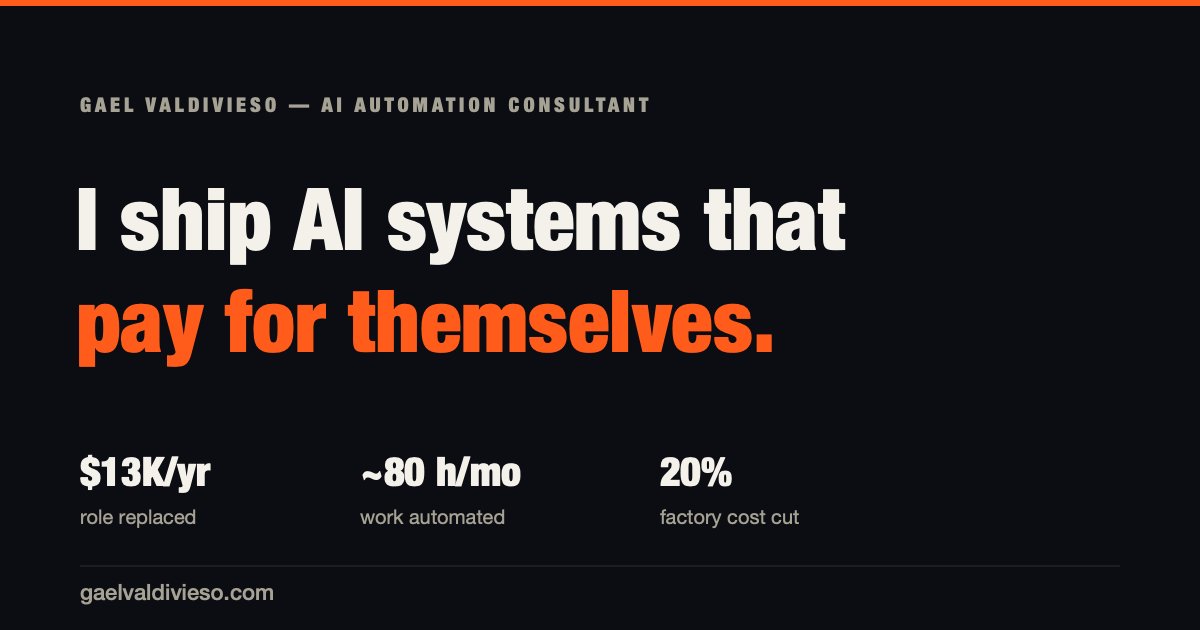
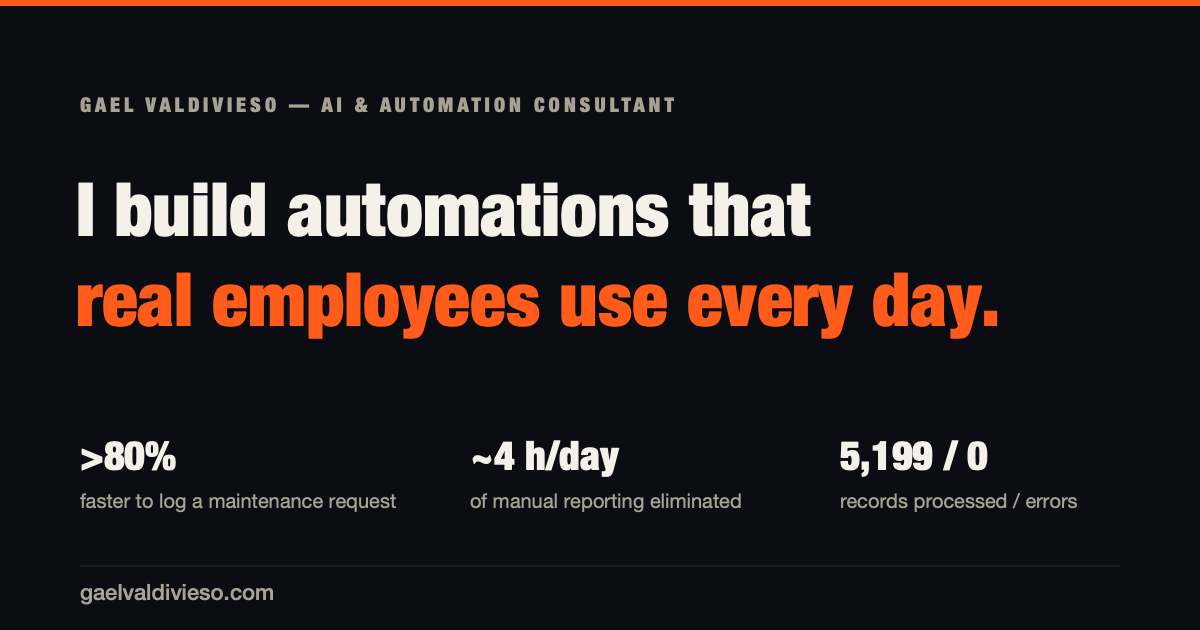
Content update: impact-first case studies, new hero stats, skills + background
- Hero: new headline/angle, 4 new stat cards (>80%, ~4 h/day, 5,199/0, 1 role)
- 4 case studies (was 5), each Result -> Problem -> What I built -> How it works -> Stack -> Status
- Case 1 adds labelled 'In progress' block (supplier-quote intake)
- Skills in 4 groups replaces Toolbox; Background replaces About
- Removed: all money figures, client name, phone/WhatsApp, work-rights line, old VBA and bottleneck cards
- Meta/OG/canonical rewritten; canonical now www; og.png regenerated
- Hero reveals instantly on load instead of waiting for the observer

diff --git a/index.html b/index.html
@@ -3,26 +3,26 @@
 <head>
 <meta charset="utf-8">
 <meta name="viewport" content="width=device-width, initial-scale=1">
-<title>Gael Valdivieso · AI systems that pay for themselves</title>
-<meta name="description" content="Gael Valdivieso builds AI systems that pay for themselves, with real clients and measured ROI. Final-year Engineering &amp; Management student, University of Exeter.">
-<link rel="canonical" href="https://gaelvaldivieso.com/">
+<title>Gael Valdivieso · AI &amp; automation consultant</title>
+<meta name="description" content="Final-year Engineering and Management student (University of Exeter) and founder of Gael AI Consulting. AI-assisted maintenance app in daily use at a printing and packaging plant; ~4 hours a day of manual reporting eliminated at FedEx, official representative in Ecuador (Grupo Entregas).">
+<link rel="canonical" href="https://www.gaelvaldivieso.com/">
 <meta name="author" content="Gael Valdivieso">
 <meta name="theme-color" content="#0C0D12">
 
 <meta property="og:type" content="website">
 <meta property="og:site_name" content="Gael Valdivieso">
-<meta property="og:url" content="https://gaelvaldivieso.com/">
-<meta property="og:title" content="Gael Valdivieso · AI systems that pay for themselves">
-<meta property="og:description" content="AI automation consultant with real, paid deployments in Ecuador. $13K/yr role replaced, ~80 h/mo automated, 20% cost cut on a factory line.">
-<meta property="og:image" content="https://gaelvaldivieso.com/og.png">
+<meta property="og:url" content="https://www.gaelvaldivieso.com/">
+<meta property="og:title" content="Gael Valdivieso · AI &amp; automation consultant">
+<meta property="og:description" content="I build automations that real employees use every day, and I measure what they change. &gt;80% faster maintenance requests · ~4 h/day of manual reporting eliminated · 5,199 records, 0 errors.">
+<meta property="og:image" content="https://www.gaelvaldivieso.com/og.png">
 <meta property="og:image:width" content="1200">
 <meta property="og:image:height" content="630">
-<meta property="og:image:alt" content="Gael Valdivieso — I ship AI systems that pay for themselves.">
+<meta property="og:image:alt" content="Gael Valdivieso — I build automations that real employees use every day.">
 
 <meta name="twitter:card" content="summary_large_image">
-<meta name="twitter:title" content="Gael Valdivieso · AI systems that pay for themselves">
-<meta name="twitter:description" content="AI automation consultant with real, paid deployments in Ecuador. $13K/yr role replaced, ~80 h/mo automated, 20% cost cut on a factory line.">
-<meta name="twitter:image" content="https://gaelvaldivieso.com/og.png">
+<meta name="twitter:title" content="Gael Valdivieso · AI &amp; automation consultant">
+<meta name="twitter:description" content="I build automations that real employees use every day, and I measure what they change. &gt;80% faster maintenance requests · ~4 h/day of manual reporting eliminated · 5,199 records, 0 errors.">
+<meta name="twitter:image" content="https://www.gaelvaldivieso.com/og.png">
 
 <link rel="icon" href="/favicon.svg" type="image/svg+xml">
 <link rel="icon" href="/favicon-32.png" sizes="32x32" type="image/png">
@@ -236,7 +236,7 @@ a{color:inherit}
 .case.alt .case-aside .idx,
 .case.alt .row .rk{color:var(--signal)}
 .case.alt .case-aside .tag{border-color:var(--signal);color:var(--signal)}
-.case.alt .note{
+.note{
   margin-top:1.4rem;padding:.9rem 1.1rem;
   border-left:2px solid var(--signal);
   background:var(--surface);
@@ -328,6 +328,28 @@ footer{
   display:flex;justify-content:space-between;flex-wrap:wrap;gap:.5rem;
 }
 
+/* ---------- case extras (client line, bullets, in-progress block, compact card) ---------- */
+.case-body .client{
+  font-family:"IBM Plex Mono",monospace;
+  font-size:.72rem;letter-spacing:.12em;text-transform:uppercase;
+  color:var(--ink-dim);margin-top:.6rem;
+}
+.row ul{margin:.25rem 0 0 1.1rem;color:var(--ink-dim)}
+.row li+li{margin-top:.35rem}
+.row li strong{color:var(--ink);font-weight:600}
+.note.wip{border-left-color:var(--accent);margin-top:1.6rem}
+.note.wip .rk{font-family:"IBM Plex Mono",monospace;font-size:.7rem;letter-spacing:.16em;text-transform:uppercase;color:var(--accent);margin-bottom:.3rem}
+.note.wip .pill{margin-top:.8rem;border-color:var(--accent)}
+.note.wip .pill::before{background:var(--accent)}
+.case.minor{padding:clamp(1.8rem,5vh,3rem) 0}
+.case.minor .case-body h3{font-size:clamp(1.15rem,1rem + .6vw,1.45rem)}
+.case.minor .idx{font-size:clamp(2rem,1.6rem + 2vw,3rem)}
+
+/* ---------- SKILLS ---------- */
+.skills{border-top:1px solid var(--hair);padding:clamp(2rem,5vh,3rem) 0;display:flex;flex-direction:column;gap:1.6rem}
+.skill-group .eyebrow{display:block;margin-bottom:.6rem}
+.skill-group .stack-grid{border-top:0;padding:0}
+
 /* ---------- reveal animation ---------- */
 .reveal{opacity:0;transform:translateY(22px);transition:opacity .7s cubic-bezier(.2,.6,.2,1),transform .7s cubic-bezier(.2,.6,.2,1)}
 .reveal.in{opacity:1;transform:none}
@@ -357,50 +379,65 @@ a:focus-visible,.btn:focus-visible{outline:2px solid var(--focus);outline-offset
 
   <!-- HERO -->
   <section class="hero">
-    <span class="eyebrow reveal">Gael Valdivieso · AI Automation Consultant</span>
-    <h1 class="reveal">I ship AI systems that <span class="hl">pay for themselves</span>. Not slide decks.</h1>
-    <p class="sub reveal">Final-year Engineering &amp; Management student at the University of Exeter, graduating July 2027, and founder of <strong>Cresco</strong>, an independent automation consultancy with real, paid deployments in Ecuador.</p>
+    <span class="eyebrow reveal">Gael Valdivieso · AI &amp; automation consultant</span>
+    <h1 class="reveal">I build automations that real employees <span class="hl">use every day</span> — and I measure what they change.</h1>
+    <p class="sub reveal">Final-year Engineering and Management student at the University of Exeter and founder of <strong>Gael AI Consulting</strong>. Replaced a factory's paper maintenance process with an AI-assisted app used every day, then sold the client the next phase. Before that, automated reporting at <strong>FedEx, official representative in Ecuador (Grupo Entregas)</strong>, saving ~4 hours of manual work a day.</p>
     <div class="cta-row reveal">
       <a class="btn btn-primary" href="#contact">Let's talk →</a>
       <a class="btn btn-ghost" href="#work">See the work</a>
     </div>
 
     <div class="stat-strip">
-      <div class="stat reveal"><div class="n">5</div><div class="l">shipped projects, real clients</div></div>
-      <div class="stat reveal"><div class="n">$13K<span style="font-size:.6em">/yr</span></div><div class="l">role not backfilled, thanks to the system</div></div>
-      <div class="stat reveal"><div class="n">~80<span style="font-size:.6em">h/mo</span></div><div class="l">manual data work automated away</div></div>
-      <div class="stat reveal"><div class="n">20%</div><div class="l">operating cost cut on a factory line</div></div>
+      <div class="stat reveal"><div class="n">&gt;80%</div><div class="l">faster to log a maintenance request with AI</div></div>
+      <div class="stat reveal"><div class="n">~4<span style="font-size:.6em"> h/day</span></div><div class="l">of manual reporting eliminated</div></div>
+      <div class="stat reveal"><div class="n">5,199<span style="font-size:.6em"> / 0</span></div><div class="l">records processed, errors — first test with real data</div></div>
+      <div class="stat reveal"><div class="n">1<span style="font-size:.6em"> role</span></div><div class="l">vacant role made unnecessary by an AI-assisted app</div></div>
     </div>
   </section>
 
   <!-- WORK -->
   <section id="work">
     <div class="sec-head">
-      <span class="eyebrow reveal">Selected work</span>
-      <h2 class="reveal">Case files</h2>
-      <span class="count reveal">01 – 05 · ordered by impact</span>
+      <span class="eyebrow reveal">Case studies</span>
+      <h2 class="reveal">What I built, and what it changed</h2>
+      <span class="count reveal">01 – 04 · result first</span>
     </div>
 
     <!-- CASE 1 -->
     <article class="case reveal">
       <div class="case-aside">
         <div class="idx">01</div>
-        <span class="tag">AI-assisted platform · in production</span>
+        <span class="tag">AI-assisted app · in production</span>
         <div class="metrics">
-          <div class="metric"><div class="mn">$13,000/yr</div><div class="ml">position cost removed</div></div>
-          <div class="metric"><div class="mn">~13×</div><div class="ml">ROI over project fee</div></div>
-          <div class="metric"><div class="mn">2 months</div><div class="ml">live and still running</div></div>
+          <div class="metric"><div class="mn">&gt;80%</div><div class="ml">faster to log a maintenance request</div></div>
+          <div class="metric"><div class="mn">1 role</div><div class="ml">vacant coordinator role made unnecessary</div></div>
+          <div class="metric"><div class="mn">304</div><div class="ml">machines in the live catalogue</div></div>
         </div>
       </div>
       <div class="case-body">
-        <h3>AI-Assisted Maintenance Platform: Imprenta Mariscal</h3>
+        <h3>AI maintenance platform for a printing and packaging plant</h3>
+        <div class="client">Gael AI Consulting · Jul 2026 – Present</div>
         <div class="rows">
-          <div class="row"><div class="rk">Problem</div><p>The person responsible for maintenance (tracking, reporting, staying on top of everything) resigned, leaving a lot of loose operational threads with no owner.</p></div>
-          <div class="row"><div class="rk">Solution</div><p>I built a maintenance request-tracking PWA (Next.js, FileMaker Data API, Supabase) with generative AI wired into four real friction points: photo-based damage classification, voice-note transcription and cleanup, structured close-out report extraction, and quote/PDF data extraction. All AI calls use structured outputs (JSON Schema) to guarantee parseable results, with a human reviewing and confirming every output. No autonomous agent, no memory between calls: targeted AI inside a deterministic app that also handles routing, notifications, and sync.</p></div>
-          <div class="row"><div class="rk">Impact</div><p>The factory has run its maintenance workflow for <strong>two months in production</strong> without backfilling the vacant coordination role, avoiding roughly <strong>$13,000/yr</strong> in salary cost, about <strong>13× ROI</strong> on what I charged to build it.</p></div>
+          <div class="row"><div class="rk">Result</div><p><strong>Replaced a vacant maintenance-coordinator role.</strong> Logging a maintenance request is <strong>&gt;80% faster</strong>. Used every day by the plant manager and the technician.</p></div>
+          <div class="row"><div class="rk">Problem</div><p>Corrective maintenance at a ~550-employee printing and packaging plant (304 machines) ran on paper.</p></div>
+          <div class="row"><div class="rk">What I built</div><p>An installable web app (PWA) covering the whole workflow: <strong>request → diagnosis → quotation → approval → resolution</strong>. Role-based login, device revocation, role-targeted push notifications and self-updating deployments.</p></div>
+          <div class="row"><div class="rk">How it works</div>
+            <ul>
+              <li><strong>Voice dictation</strong> with automatic text clean-up.</li>
+              <li><strong>Photo analysis</strong> that suggests each request's priority and classification.</li>
+              <li><strong>Voice-dictated closure reports</strong> turned into structured data, with automatic time tracking and a formatted closure email.</li>
+              <li>Connected to the company's legacy <strong>FileMaker ERP</strong>: live 304-machine catalogue, two-way sync of requests, and an offline queue with automatic retry for unreliable plant connectivity.</li>
+            </ul>
+          </div>
+          <div class="row"><div class="rk">Business side</div><p>Scoped, priced and sold a phased digitisation roadmap. <strong>Phase 1 approved by the client in Sep 2026.</strong></p></div>
+        </div>
+        <div class="note wip">
+          <div class="rk">In progress</div>
+          <p>Automated supplier-quote intake: inbound emails are verified, AI extracts amount, currency and terms, quotes are matched to the right machine and unmatched ones flagged for review.</p>
+          <span class="pill">Built and tested · deployment in progress</span>
         </div>
         <div class="stackline">
-          <span class="chip">Next.js 16</span><span class="chip">FileMaker Data API</span><span class="chip">Supabase Auth + RLS</span><span class="chip">OpenAI gpt-4o-mini</span><span class="chip">gpt-4o-transcribe</span><span class="chip">Structured Outputs (JSON Schema)</span><span class="chip">Resend</span><span class="chip">Web Push</span><span class="chip">PWA</span>
+          <span class="chip">Next.js</span><span class="chip">React</span><span class="chip">TypeScript</span><span class="chip">Tailwind CSS</span><span class="chip">Supabase (Auth, Postgres, RLS)</span><span class="chip">FileMaker Data API</span><span class="chip">OpenAI (speech-to-text, vision, extraction)</span><span class="chip">Resend</span><span class="chip">Web Push</span><span class="chip">Vercel</span>
         </div>
       </div>
     </article>
@@ -409,22 +446,31 @@ a:focus-visible,.btn:focus-visible{outline:2px solid var(--focus);outline-offset
     <article class="case reveal">
       <div class="case-aside">
         <div class="idx">02</div>
-        <span class="tag">Full web app · daily use</span>
+        <span class="tag">Automated reporting · used daily</span>
         <div class="metrics">
-          <div class="metric"><div class="mn">Real-time</div><div class="ml">operational answers</div></div>
-          <div class="metric"><div class="mn">Per-branch</div><div class="ml">access, enforced by RLS</div></div>
-          <div class="metric"><div class="mn">0</div><div class="ml">manual Excel reviews left</div></div>
+          <div class="metric"><div class="mn">~4 h/day</div><div class="ml">of manual reporting eliminated</div></div>
+          <div class="metric"><div class="mn">5,199 / 0</div><div class="ml">real records processed / errors</div></div>
+          <div class="metric"><div class="mn">39</div><div class="ml">branches with daily visibility</div></div>
         </div>
       </div>
       <div class="case-body">
-        <h3>Torre de Control: Grupo Entregas Logistics, Ecuador</h3>
+        <h3>Operations control tower for a national delivery network</h3>
+        <div class="client">FedEx, official representative in Ecuador (Grupo Entregas) · Jun – Jul 2026</div>
         <div class="rows">
-          <div class="row"><div class="rk">Problem</div><p>The operation delivering bank cards had no real-time visibility into which shipments were stuck. Someone had to open every delivery point's daily Excel ("Punto CLON") by hand and scan colour-coded pivot sheets for trouble.</p></div>
-          <div class="row"><div class="rk">Solution</div><p>I built a full operational web panel (not an Excel sheet or a no-code dashboard) that answers, live: is the operation healthy today? Which shipments need follow-up right now? Which points are worst? A shipment is flagged <strong>at risk</strong> automatically when it goes 2+ days with no status change, or never left for delivery.</p></div>
-          <div class="row"><div class="rk">Impact</div><p>Replaces the daily manual Excel review per delivery point. Access is segmented by security (<strong>Row Level Security</strong>) instead of emailing the whole sheet to everyone. In real daily use.</p></div>
+          <div class="row"><div class="rk">Result</div><p><strong>Eliminated ~4 hours of manual reporting a day.</strong> Management now has daily visibility of at-risk and delayed shipments across a <strong>39-branch network</strong>. Used every day since launch.</p></div>
+          <div class="row"><div class="rk">Problem</div><p>An office employee consolidated the daily shipment report by hand.</p></div>
+          <div class="row"><div class="rk">What I built</div><p>First, <strong>9 VBA tools</strong> that cut the report to a few clicks. Then a fully automatic <strong>control tower</strong>: the report arrives by email and is ingested automatically, validated before any write, de-duplicated and logged. It includes a KPI dashboard, an alert centre, risk-sorted shipment tracking with full per-shipment history, and 30-day trends by branch.</p></div>
+          <div class="row"><div class="rk">How it works</div>
+            <ul>
+              <li><strong>5,199 real shipment records</strong> processed with <strong>zero errors</strong> in the first test with real data.</li>
+              <li>Branches detected and created automatically.</li>
+              <li><strong>11 users in 2 roles</strong>; each branch sees only its own data.</li>
+              <li>Plus a Power BI monitoring dashboard (Power Query, DAX, Row-Level Security).</li>
+            </ul>
+          </div>
         </div>
         <div class="stackline">
-          <span class="chip">Next.js 16</span><span class="chip">TypeScript</span><span class="chip">Tailwind v4</span><span class="chip">shadcn/ui</span><span class="chip">Supabase · Postgres</span><span class="chip">Auth + RLS</span><span class="chip">Recharts</span><span class="chip">exceljs</span><span class="chip">Cloudflare Email Routing</span><span class="chip">Cloudflare Worker (own code)</span><span class="chip">Vercel</span><span class="chip">n8n (evaluated, rejected)</span>
+          <span class="chip">Excel / VBA</span><span class="chip">Next.js</span><span class="chip">TypeScript</span><span class="chip">Supabase / Postgres (Row-Level Security)</span><span class="chip">Cloudflare Workers (email ingestion)</span><span class="chip">Recharts</span><span class="chip">Vercel</span><span class="chip">Power BI</span>
         </div>
       </div>
     </article>
@@ -433,104 +479,97 @@ a:focus-visible,.btn:focus-visible{outline:2px solid var(--focus);outline-offset
     <article class="case reveal">
       <div class="case-aside">
         <div class="idx">03</div>
-        <span class="tag">Guided assistant · in production</span>
+        <span class="tag">Guided web app · in use</span>
         <div class="metrics">
-          <div class="metric"><div class="mn">4 banks</div><div class="ml">rule sets unified</div></div>
-          <div class="metric"><div class="mn">18 / 18</div><div class="ml">rule combinations tested</div></div>
-          <div class="metric"><div class="mn">1–3</div><div class="ml">questions to a full checklist</div></div>
+          <div class="metric"><div class="mn">4</div><div class="ml">bank clients covered</div></div>
+          <div class="metric"><div class="mn">17</div><div class="ml">delivery rules encoded</div></div>
         </div>
       </div>
       <div class="case-body">
-        <h3>Delivery Assistant: Digital Field Instructions</h3>
+        <h3>Delivery guide app for bank-card couriers</h3>
+        <div class="client">FedEx, official representative in Ecuador (Grupo Entregas) · Jun – Jul 2026</div>
         <div class="rows">
-          <div class="row"><div class="rk">Problem</div><p>Couriers delivering cards for four different banking clients (Banco Pacífico, Produbanco, Banco Bolivariano, Cooperativa JEP) had to memorise a long physical manual with different rules per bank: which documents to request, which signatures, which critical warnings.</p></div>
-          <div class="row"><div class="rk">Solution</div><p>A step-by-step assistant, built as one self-contained HTML/CSS/JS file with no external libraries, that guides the courier through 1–3 simple questions and produces the exact checklist: documents, required signatures, warnings (e.g. <strong>"deliver to the account holder only"</strong>), and what to upload to internal systems. All business logic came from the company's real manual, nothing invented. Where the original manual was ambiguous, the output says <strong>"verify in manual"</strong> instead of guessing.</p></div>
-          <div class="row"><div class="rk">Impact</div><p>Validated against all 18 possible rule combinations. Now in active use by couriers across all 4 banking accounts and all 39 delivery locations.</p></div>
+          <div class="row"><div class="rk">Result</div><p><strong>Couriers across Ecuador no longer need to call the office</strong> to ask how to deliver a bank card.</p></div>
+          <div class="row"><div class="rk">Problem</div><p>There was no written guide for bank-card deliveries; couriers had to remember the rules of each bank.</p></div>
+          <div class="row"><div class="rk">What I built</div><p>The first guide: a step-by-step web app covering <strong>4 bank clients</strong>. The courier answers a few questions (delivery type, product, recipient) and gets the exact documents and warnings required, encoded as <strong>17 delivery rules</strong>.</p></div>
         </div>
-        <span class="pill">In production · 4 banking accounts · 39 locations</span>
       </div>
     </article>
 
-    <!-- CASE 4 -->
-    <article class="case reveal">
+    <!-- CASE 4 (compact) -->
+    <article class="case alt minor reveal">
       <div class="case-aside">
         <div class="idx">04</div>
-        <span class="tag">VBA automation · in production</span>
+        <span class="tag">Personal project · retired</span>
         <div class="metrics">
-          <div class="metric"><div class="mn">~80 h/mo</div><div class="ml">of one person's manual work removed</div></div>
-          <div class="metric"><div class="mn">1 macro</div><div class="ml">replaces the whole cleanup step</div></div>
+          <div class="metric"><div class="mn">341</div><div class="ml">openings tracked</div></div>
+          <div class="metric"><div class="mn">250</div><div class="ml">companies</div></div>
         </div>
       </div>
       <div class="case-body">
-        <h3>Excel Data Cleaning Automation: Grupo Entregas</h3>
+        <h3>Job-search automation pipeline</h3>
+        <div class="client">Personal project · Sep 2026</div>
         <div class="rows">
-          <div class="row"><div class="rk">Problem</div><p>A person manually cleaned Excel sheets before they entered the downstream process: repetitive, slow, and error-prone.</p></div>
-          <div class="row"><div class="rk">Solution</div><p>I automated the whole cleanup with a <strong>VBA macro</strong>.</p></div>
-          <div class="row"><div class="rk">Impact</div><p>Saves roughly <strong>80 hours a month</strong> of one person's manual work.</p></div>
+          <div class="row"><div class="rk">Result</div><p>Tracked <strong>341 openings across 250 companies</strong> automatically, with a daily email digest instead of checking job boards by hand.</p></div>
+          <div class="row"><div class="rk">What I built</div><p>A scheduled Python pipeline that classified my application emails (read-only Gmail), pulled openings from job APIs and company job boards (Greenhouse, Lever, Ashby), de-duplicated them and refreshed every 3 hours, with a dashboard on Vercel.</p></div>
         </div>
-      </div>
-    </article>
-
-    <!-- CASE 5 -->
-    <article class="case alt reveal">
-      <div class="case-aside">
-        <div class="idx">05</div>
-        <span class="tag">Process diagnosis &amp; operational consulting</span>
-        <div class="metrics">
-          <div class="metric"><div class="mn">20%</div><div class="ml">cost reduction</div></div>
-          <div class="metric"><div class="mn">24 h</div><div class="ml">faster delivery time</div></div>
-          <div class="metric"><div class="mn">~2 months</div><div class="ml">project duration</div></div>
+        <span class="pill">Retired · since replaced</span>
+        <div class="stackline">
+          <span class="chip">Python</span><span class="chip">Gmail API</span><span class="chip">REST APIs</span><span class="chip">GitHub Actions</span><span class="chip">Vercel</span>
         </div>
-      </div>
-      <div class="case-body">
-        <h3>Operations Bottleneck Diagnosis: Imprenta Mariscal (Printing)</h3>
-        <div class="rows">
-          <div class="row"><div class="rk">Problem</div><p>One machine had been failing recurrently without the operator reporting it: a small-looking bottleneck with disproportionate impact across the whole chain.</p></div>
-          <div class="row"><div class="rk">Method</div><p>I mapped the entire process from sales to finished product leaving the factory, using a <strong>Theory of Constraints</strong> approach under my manager's guidance. That's how the small bottleneck's true, much larger impact became visible.</p></div>
-          <div class="row"><div class="rk">Recommendation</div><p>Invest in a second machine to speed the process.</p></div>
-          <div class="row"><div class="rk">Impact</div><p><strong>20% cost reduction</strong> and a <strong>24-hour</strong> improvement in delivery time.</p></div>
-        </div>
-        <div class="note">This engagement was operations and process consulting, not AI automation. Different discipline, same instinct: find the constraint, quantify it, fix it.</div>
       </div>
     </article>
   </section>
 
-  <!-- STACK -->
-  <section id="stack">
+  <!-- SKILLS -->
+  <section id="skills">
     <div class="sec-head">
-      <span class="eyebrow reveal">Toolbox</span>
-      <h2 class="reveal">Tools I work with</h2>
+      <span class="eyebrow reveal">Skills</span>
+      <h2 class="reveal">What I work with</h2>
     </div>
-    <div class="stack-grid reveal">
-      <span class="tool">Claude / Claude Code</span>
-      <span class="tool">Next.js</span>
-      <span class="tool">TypeScript</span>
-      <span class="tool">Python</span>
-      <span class="tool">Supabase</span>
-      <span class="tool">VBA</span>
-      <span class="tool">Cloudflare Workers</span>
-      <span class="tool">Tailwind CSS</span>
-      <span class="tool">Advanced Excel</span>
-      <span class="tool muted">n8n (evaluated)</span>
+    <div class="skills reveal">
+      <div class="skill-group">
+        <span class="eyebrow">Applied AI</span>
+        <div class="stack-grid">
+          <span class="tool">Speech-to-text</span><span class="tool">Vision classification</span><span class="tool">Document data extraction</span><span class="tool">LLM tool calling (OpenAI, Gemini)</span><span class="tool">AI-assisted development (Claude Code)</span>
+        </div>
+      </div>
+      <div class="skill-group">
+        <span class="eyebrow">Automation &amp; development</span>
+        <div class="stack-grid">
+          <span class="tool">Python</span><span class="tool">TypeScript / Next.js / React</span><span class="tool">Supabase / Postgres</span><span class="tool">REST APIs &amp; webhooks</span><span class="tool">Cloudflare Workers</span><span class="tool">GitHub Actions</span><span class="tool">Vercel</span><span class="tool">Legacy ERP integration (FileMaker Data API)</span>
+        </div>
+      </div>
+      <div class="skill-group">
+        <span class="eyebrow">Data</span>
+        <div class="stack-grid">
+          <span class="tool">Advanced Excel (VBA)</span><span class="tool">Power BI (Power Query, DAX, Row-Level Security)</span><span class="tool">SQL</span>
+        </div>
+      </div>
+      <div class="skill-group">
+        <span class="eyebrow">Business</span>
+        <div class="stack-grid">
+          <span class="tool">Scoping and pricing projects</span><span class="tool">Business cases</span><span class="tool">Requirements gathering</span><span class="tool">Client management</span>
+        </div>
+      </div>
     </div>
   </section>
 
-  <!-- ABOUT -->
+  <!-- BACKGROUND -->
   <section id="about">
     <div class="sec-head">
-      <span class="eyebrow reveal">About</span>
-      <h2 class="reveal">Who's behind this</h2>
+      <span class="eyebrow reveal">Background</span>
+      <h2 class="reveal">Operations first, then automation</h2>
     </div>
     <div class="about reveal">
       <div class="facts">
-        <div class="fact"><div class="fk">Study</div><div class="fv">Engineering &amp; Management, University of Exeter</div></div>
-        <div class="fact"><div class="fk">Graduating</div><div class="fv">July 2027 · predicted First Class</div></div>
-        <div class="fact"><div class="fk">Languages</div><div class="fv">Spanish (native) · English (fluent) · French (B1→B2)</div></div>
-        <div class="fact"><div class="fk">Work rights</div><div class="fv">French passport: full EU mobility, no sponsorship needed</div></div>
+        <div class="fact"><div class="fk">Education</div><div class="fv">BEng (Hons) Engineering and Management · University of Exeter, UK · 2024 – 2027</div></div>
+        <div class="fact"><div class="fk">Predicted</div><div class="fv">First Class Honours</div></div>
+        <div class="fact"><div class="fk">Languages</div><div class="fv">Spanish (native) · English (native/bilingual) · French (B1)</div></div>
       </div>
       <div>
-        <p>I'm a final-year Engineering &amp; Management student at Exeter, and in parallel I run <strong>Cresco</strong>, my own AI-automation consultancy, with real paid clients in Ecuador.</p>
-        <p>I'm looking for graduate roles at AI consultancies and startups in the UK and Europe: a place to accelerate my learning while I keep building the business alongside. The work above is what that looks like in practice: identify the manual bottleneck, quantify it, and ship the system that removes it.</p>
+        <p><strong>Process before automation.</strong> In 2025 I cut a packaging plant's folding-carton production cycle by <strong>24 hours</strong> by finding a machine bottleneck and leading senior management to invest in a second machine.</p>
+        <p><strong>Relevant coursework:</strong> Industry 4.0 · Modelling of Engineering Systems (Python) · Manufacturing Systems · Operations Management.</p>
       </div>
     </div>
   </section>
@@ -543,7 +582,6 @@ a:focus-visible,.btn:focus-visible{outline:2px solid var(--focus);outline-offset
       <a href="mailto:valdiviesogael@gmail.com" id="email-link">valdiviesogael@gmail.com <span class="ar">↗</span></a>
       <button type="button" class="copy-link" id="copy-email" aria-label="Copy email address">copy <span class="copy-check" aria-hidden="true">✓</span></button>
       <a href="https://www.linkedin.com/in/gael-valdivieso" target="_blank" rel="noopener">linkedin.com/in/gael-valdivieso <span class="ar">↗</span></a>
-      <a href="https://wa.me/447754678020?text=Hi%20Gael%2C%20I%20found%20your%20portfolio%20and%20I%27d%20like%20to%20talk." target="_blank" rel="noopener">WhatsApp · +44 7754 678020 <span class="ar">↗</span></a>
     </div>
     <div class="cta-row reveal">
       <a class="btn btn-primary" href="mailto:valdiviesogael@gmail.com">Let's talk →</a>
@@ -591,7 +629,12 @@ a:focus-visible,.btn:focus-visible{outline:2px solid var(--focus);outline-offset
       }
     });
   }, {threshold:0.12, rootMargin:'0px 0px -8% 0px'});
-  items.forEach(function(el){ io.observe(el); });
+  // anything already on screen at load (the hero) shows immediately; the rest reveals on scroll
+  var vh = window.innerHeight;
+  items.forEach(function(el){
+    if(el.getBoundingClientRect().top < vh){ el.classList.add('in'); }
+    else { io.observe(el); }
+  });
 
   // copy email to clipboard, fallback for when mailto has no client configured
   var EMAIL = 'valdiviesogael@gmail.com';
